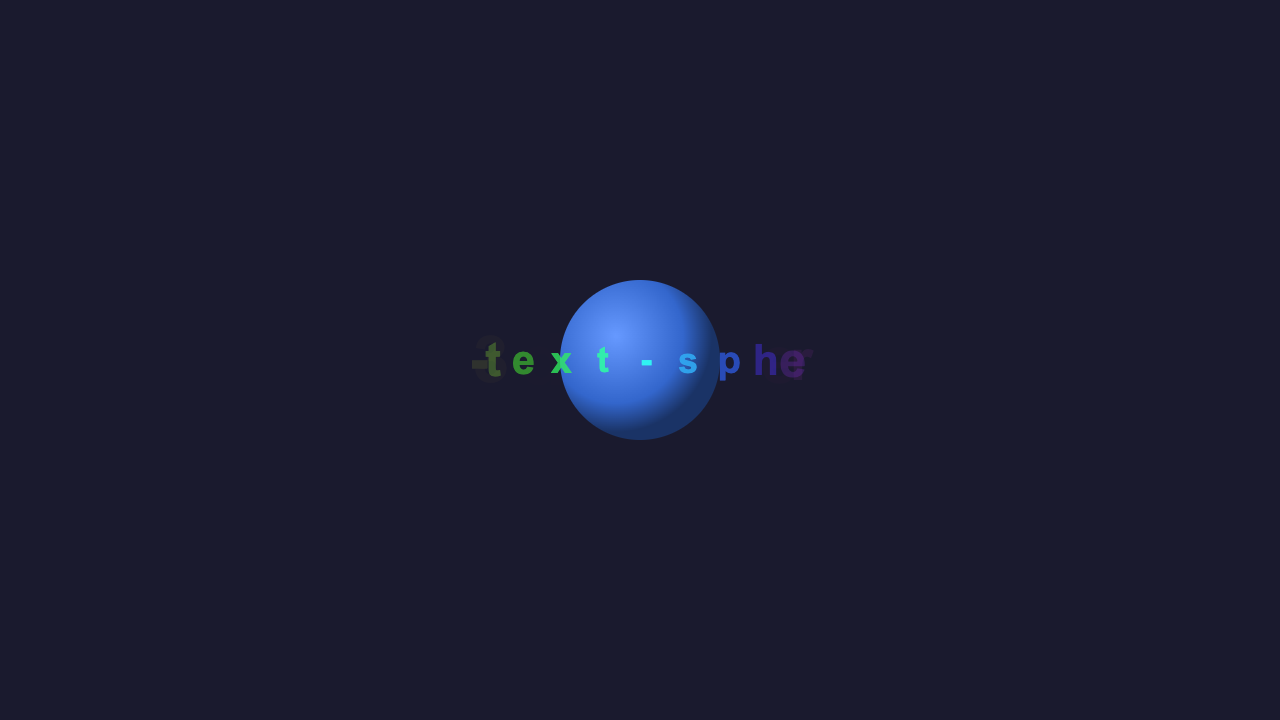
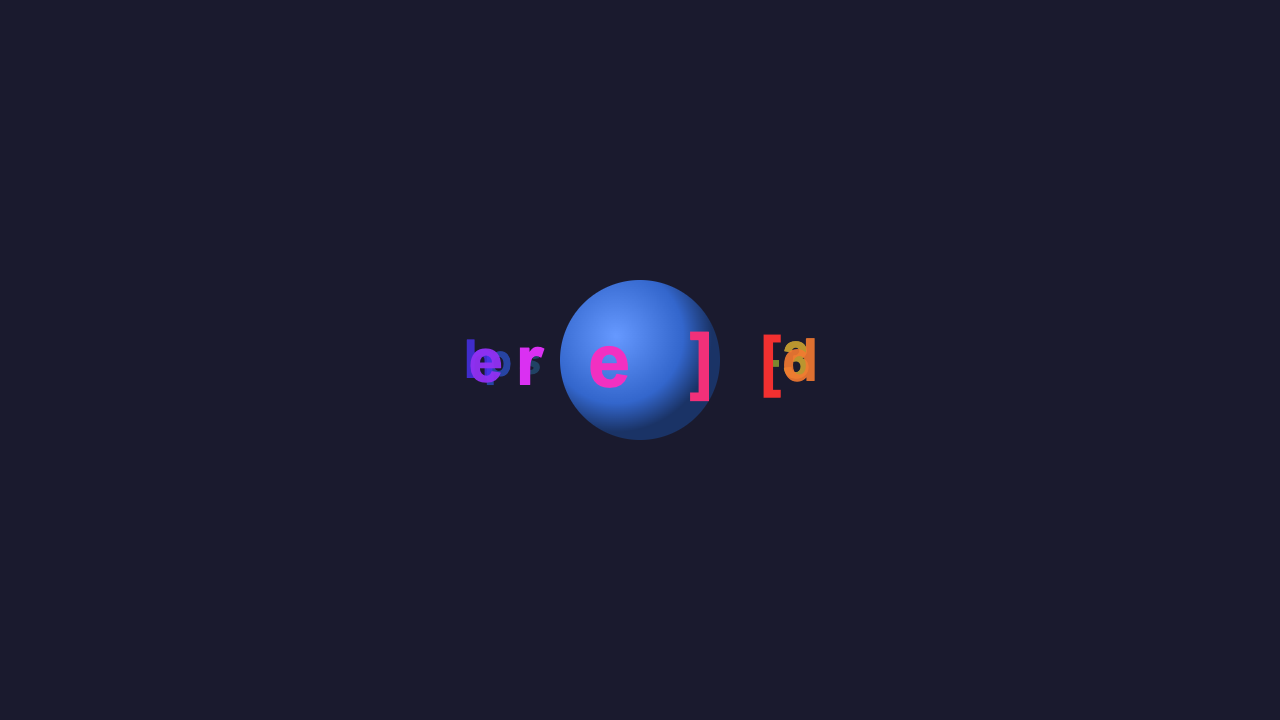
Fix perspective projection and improve 3D depth effect
- Fix inverted perspective formula: change from (PERSPECTIVE_DISTANCE + z)
  to (PERSPECTIVE_DISTANCE - z) so closer objects (z > 0) appear larger
- Adjust opacity fade curve for smoother transitions:
  - Characters stay visible longer when going behind sphere
  - Characters appear sooner when coming around to front
  - Use sqrt curve instead of squared for gentler fade

Before: Characters at screen edges appeared larger (wrong)
After: Characters in front (center of orbit path) appear larger (correct)

🤖 Generated with [Claude Code](https://claude.com/claude-code)

Changed region(s): [[0.3438, 0.4583, 0.5, 0.55], [0.5312, 0.4583, 0.6562, 0.5806]]

diff --git a/src/lib.rs b/src/lib.rs
@@ -295,18 +295,20 @@ impl TextSphere {
             let x = ORBIT_RADIUS * angle.cos();
             let z = ORBIT_RADIUS * angle.sin();
 
-            // Perspective projection
-            let scale = PERSPECTIVE_DISTANCE / (PERSPECTIVE_DISTANCE + z);
+            // Perspective projection - closer (z > 0) = larger
+            let scale = PERSPECTIVE_DISTANCE / (PERSPECTIVE_DISTANCE - z);
             let screen_x = self.center_x + x * scale;
             let screen_y = self.center_y;
             let font_size = LETTER_SIZE * scale;
 
             // Fade based on z position (depth)
-            // z > 0 = in front (coming from right), fully visible
-            // z < 0 = behind (going to left), faded out
-            // This creates the illusion of going behind the sphere
+            // z > 0 = in front, fully visible
+            // z < 0 = behind, faded out
+            // Adjusted curve: fade out later, fade in sooner
             let normalized_z = (z + ORBIT_RADIUS) / (2.0 * ORBIT_RADIUS); // 0 to 1
-            let opacity = normalized_z.powi(2); // Square for sharper fade
+            // Shift and clamp to make transition happen more at the back
+            let adjusted_z = ((normalized_z - 0.2) * 1.5).clamp(0.0, 1.0);
+            let opacity = adjusted_z.sqrt(); // sqrt for gentler fade curve
 
             char_data.push((i, screen_x, screen_y, font_size, opacity, z));
         }

diff --git a/README.md b/README.md
@@ -2,7 +2,7 @@
 
 A Rust/WebAssembly web application that displays the text "[d3-text-sphere]" orbiting around a simulated 3D sphere, rendered using **d3.js** and **SVG**.
 
-![Screenshot](images/screenshot.png?ts=1734041123374)
+![Screenshot](images/screenshot.png?ts=1734041970368)
 
 This is a companion project to [three-text-sphere](https://github.com/softwarewrighter/three-text-sphere), which uses Three.js and WebGL for true 3D rendering. This project demonstrates an alternative approach using d3.js with 2D SVG to simulate a 3D effect.
 
